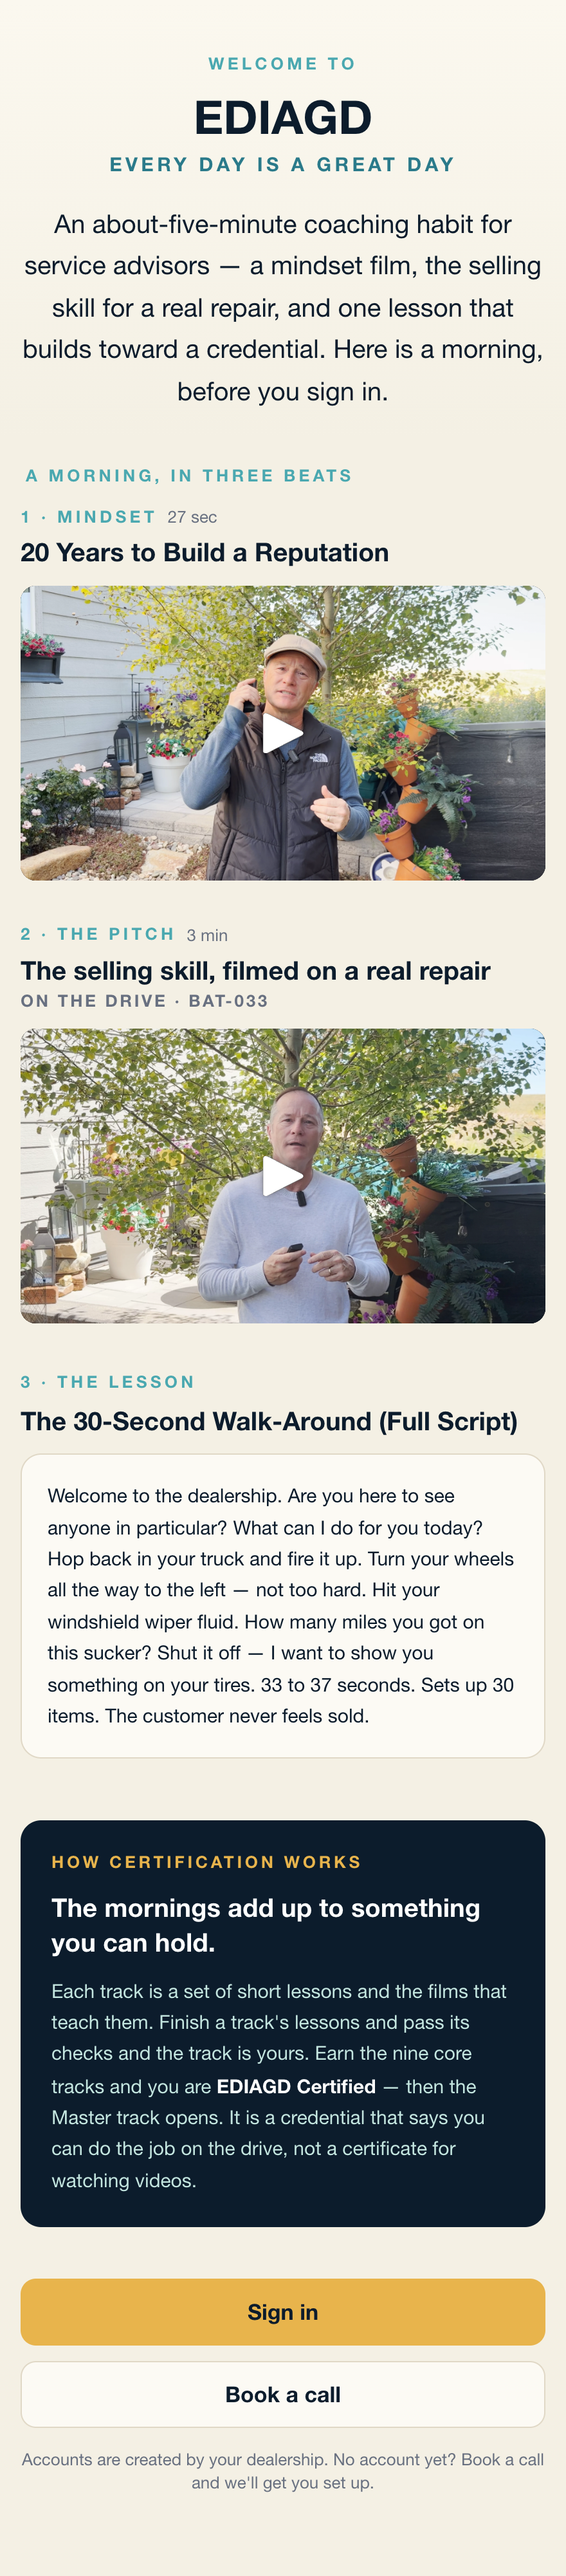
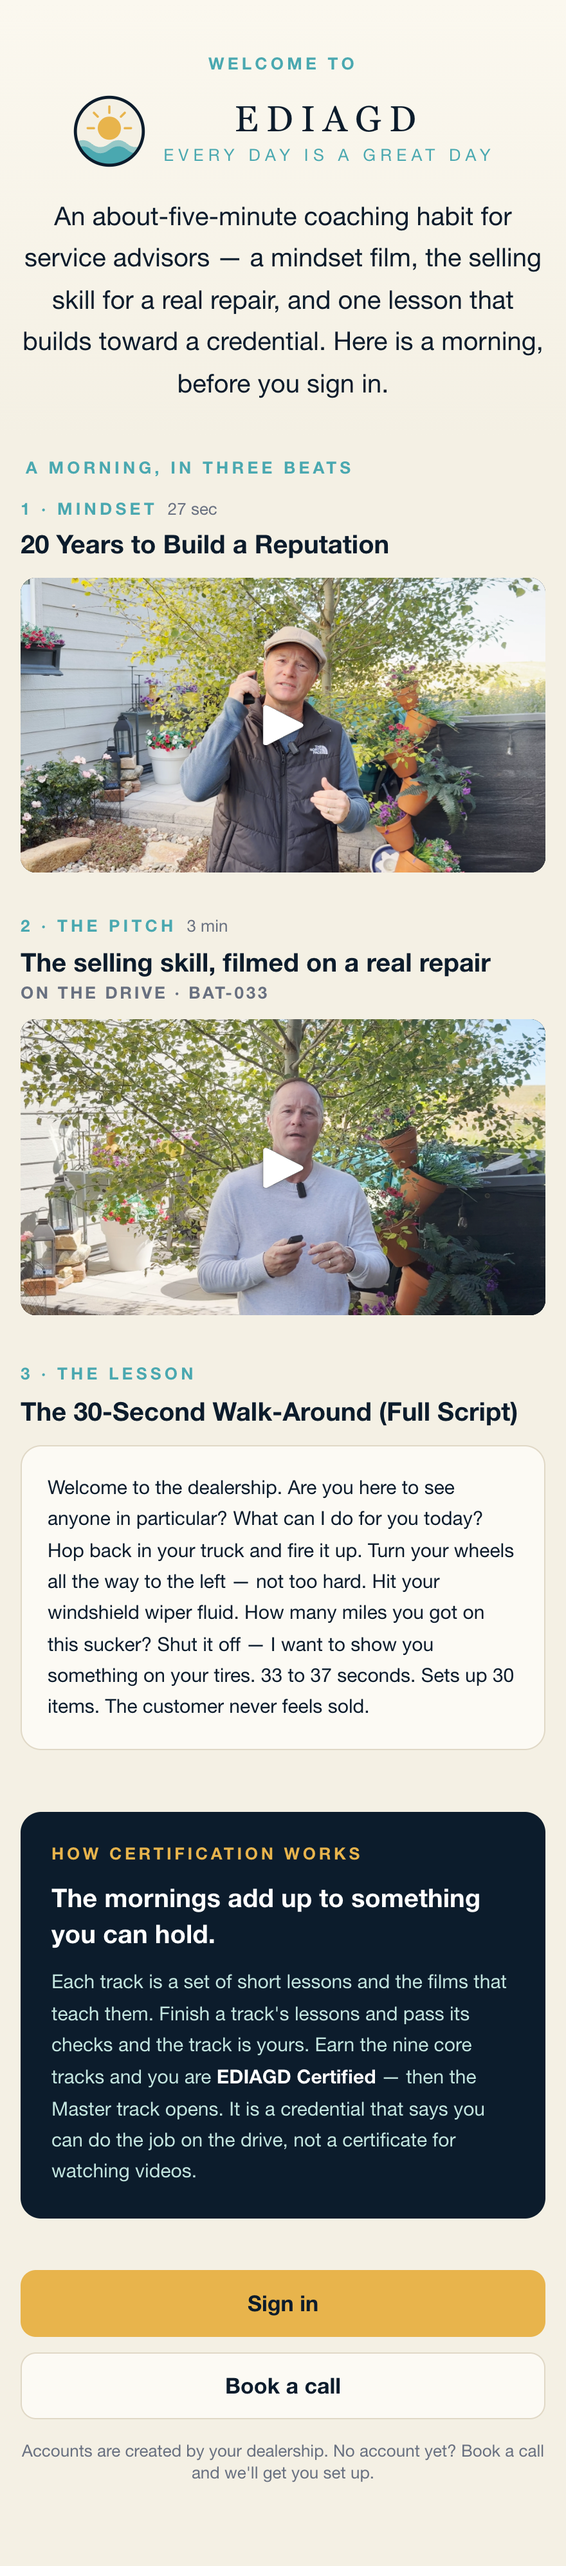
Front door hero uses the brand lockup, not the EDIAGD text
"EDIAGD" was set as text in the hero. It is the logo: the Wordmark component —
the sun-and-wave mark, the wordmark in the display serif, and the tagline — which
is the one source for all three. Dropped the hand-set text and tagline.

diff --git a/components/front-door/FrontDoor.tsx b/components/front-door/FrontDoor.tsx
@@ -1,5 +1,5 @@
 import Link from "next/link";
-import { BRAND } from "@/lib/brand";
+import { Wordmark } from "@/components/brand/Wordmark";
 import { PublicFilm } from "@/components/front-door/PublicFilm";
 
 /* ============================================================================
@@ -36,15 +36,14 @@ export function FrontDoor({ films }: { films: FrontDoorFilm[] }) {
   return (
     <main className="ediagd-app min-h-svh bg-cream">
       <div className="mx-auto max-w-app px-4 pb-16">
-        {/* ---- Hero / intro (copy + brand, no playable film) -------------- */}
+        {/* ---- Hero / intro (the logo + copy, no playable film) ----------- */}
         <section className="pt-10 text-center">
           <p className="ediagd-eyebrow">Welcome to</p>
-          <h1 className="mt-2 text-4xl font-extrabold leading-tight text-navy">
-            EDIAGD
-          </h1>
-          <p className="mt-1 text-sm font-bold uppercase tracking-[0.18em] text-ocean">
-            {BRAND.tagline}
-          </p>
+          {/* The brand lockup — the mark, the EDIAGD wordmark and the tagline —
+              not set as text. Wordmark is the one source for all three. */}
+          <div className="mt-3 flex justify-center">
+            <Wordmark size={60} />
+          </div>
           <p className="mx-auto mt-5 max-w-md text-lg leading-relaxed text-ink">
             An about-five-minute coaching habit for service advisors — a mindset
             film, the selling skill for a real repair, and one lesson that builds
